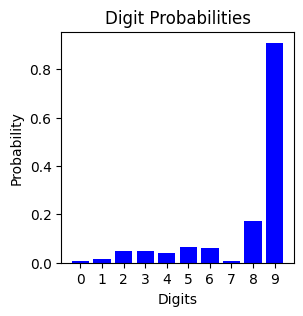
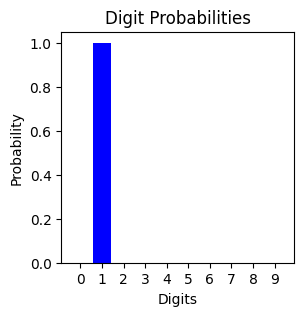
完成

diff --git a/MODEL/model.py b/MODEL/model.py
@@ -163,6 +163,44 @@ class BaseModel(ABC):
     def predict_digit(self, img):
         test_image = img.reshape(-1, 28, 28, 1)
         return self.model.predict(test_image)
+
+class LeNet5(BaseModel):
+    label = "LeNet-5"
+
+    def __init__(self, input_shape, model_path=None):
+        super().__init__(input_shape, model_path)
+    def predict_digit(self, img):
+        test_image = img.reshape(-1, 32, 32, 1)
+        return self.model.predict(test_image)
+    def build_model(self, input_shape):
+        model = Sequential()
+
+        # C1 - Convolutional Layer
+        model.add(Conv2D(filters=6, kernel_size=(5, 5), activation='relu', input_shape=input_shape))
+
+        # S2 - Subsampling Layer (Average Pooling)
+        model.add(AveragePooling2D(pool_size=(2, 2)))
+
+        # C3 - Convolutional Layer
+        model.add(Conv2D(filters=16, kernel_size=(5, 5), activation='relu'))
+
+        # S4 - Subsampling Layer (Average Pooling)
+        model.add(AveragePooling2D(pool_size=(2, 2)))
+
+        # Flatten
+        model.add(Flatten())
+
+        # C5 - Fully Connected Layer
+        model.add(Dense(120, activation='relu'))
+
+        # F6 - Fully Connected Layer
+        model.add(Dense(84, activation='relu'))
+
+        # Output Layer
+        model.add(Dense(10, activation='softmax'))
+
+        self.model = model
+        self.compile()
 class CNNModel(BaseModel):
     label = "cnn_model"
     def __init__(self, input_shape, model_path=None):

diff --git a/GUI.py b/GUI.py
@@ -9,10 +9,12 @@ def main():
 
     # Normalize and reshape the images to [num_samples, 28, 28, 1]
     x_train, x_test = imageNormalization(x_train, x_test, mean=0.1037, std=0.3081)
-
-    # Convert the labels to one-hot encoding
-    y_train = tf.keras.utils.to_categorical(y_train, 10)  # 10 classes
-    y_test = tf.keras.utils.to_categorical(y_test, 10)    # 10 classes
+    # Resize 到 32×32 for LeNet-5
+    x_train = tf.image.resize(x_train, [32, 32]).numpy()
+    x_test = tf.image.resize(x_test, [32, 32]).numpy()
+    # Convert the labels to one-hot encoding　only　caps　need
+    # y_train = tf.keras.utils.to_categorical(y_train, 10)  # 10 classes
+    # y_test = tf.keras.utils.to_categorical(y_test, 10)    # 10 classes
 
     print("x_train shape:", x_train.shape)  # (60000, 28, 28, 1)
     print("x_test shape:", x_test.shape)    # (10000, 28, 28, 1)
@@ -24,7 +26,7 @@ def main():
 
     # Initialize the CNN model with input shape and model path
     # model = CNNModel(x_train.shape[1:], model_path=model_path)
-    model = CapsuleModel(x_train.shape[1:])
+    model = LeNet5(x_train.shape[1:])
     model.summary()
 
     # If model is not loaded, compile and train it

diff --git a/utils.py b/utils.py
@@ -176,6 +176,9 @@ def get_output_image(path, model):
             roi = img[y:y + h, x:x + w]
             roi = cv2.bitwise_not(roi)
             roi = image_refiner(roi)  # Refine the image
+            # 如果是LeNet-5模型，resize到32×32
+            if model.label == "LeNet-5":
+                roi = cv2.resize(roi, (32, 32))
 
             # Ensure the image is in the correct format (28, 28, 1)
             roi = np.expand_dims(roi, axis=0)

diff --git a/log.md b/log.md
@@ -153,3 +153,6 @@ top1: 0.9974899291992188
                       - loss: 0.01015567034482956
 ```
 
+ff[^1]
+
+[^1]: dfadf
